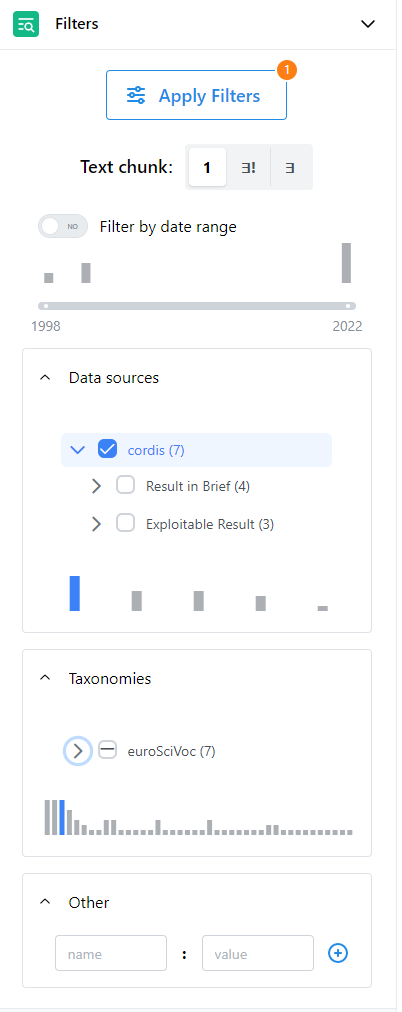
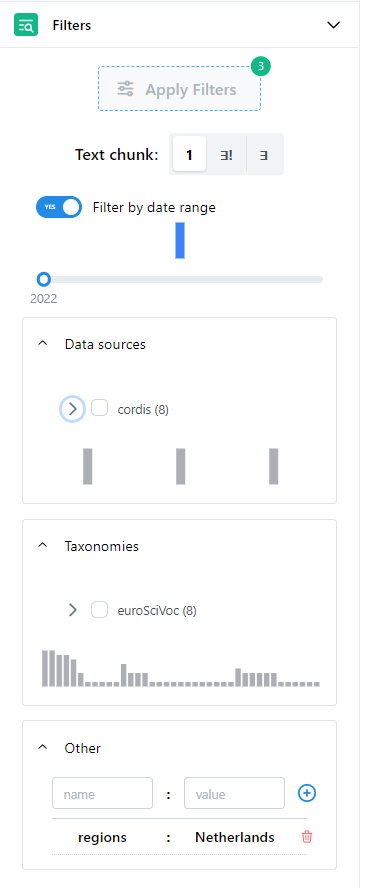
update of web-app.md and filters img

diff --git a/seta-doc/docs/user-guide/web-app.md b/seta-doc/docs/user-guide/web-app.md
@@ -75,7 +75,7 @@ There are some filters that can be applied to refine the search of the results:
 : From the different taxonomies proposed in this section, it can be possible to select only the results with a specific group of interest.
 
 `Other`
-: In this section it is possible to filter the results with an extra parameter, this parameter can be any of the ones that appear in tag ^^Other^^ from the uploaded documents.
+: In this section it is possible to filter the results with an extra parameter, this parameter can be any of the tags that appears in tag ^^Other^^ from the uploaded documents (e.g. *crc, project_piknus, regions, identifiers*).
 
 
 
